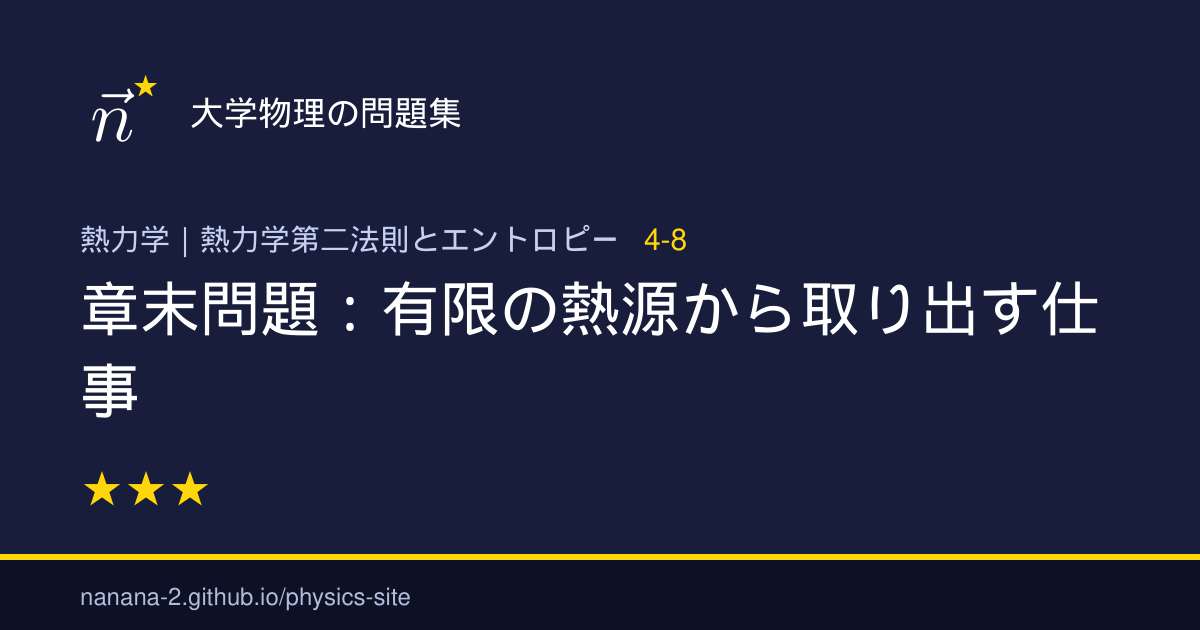
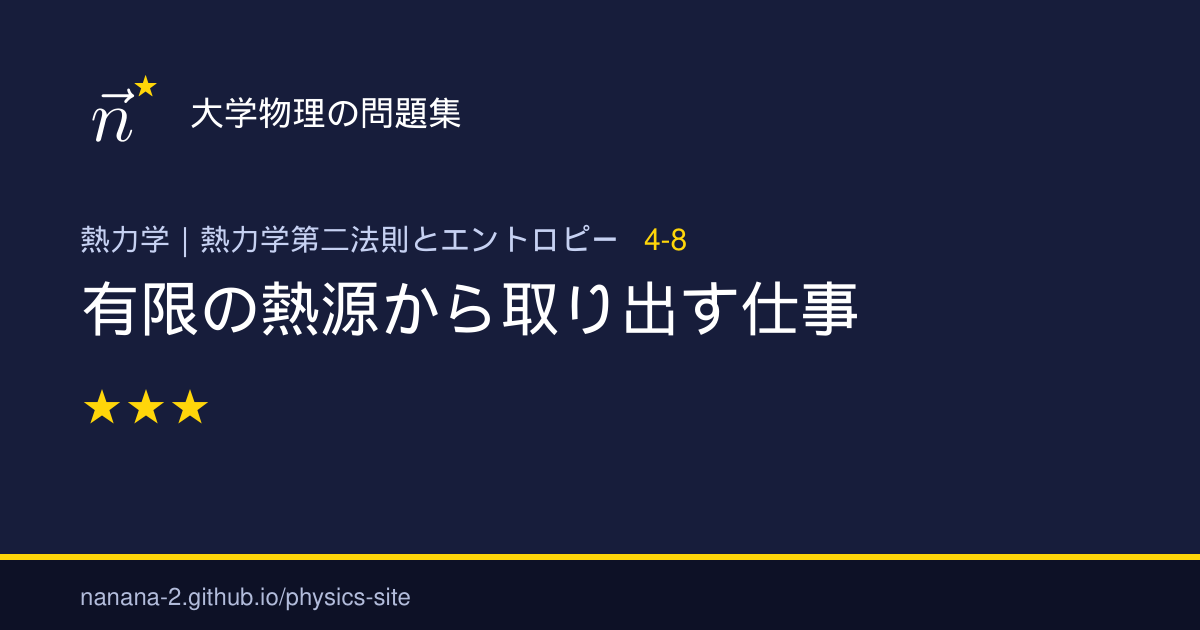
章末問題の題名から「章末問題」を外し，問題の帯と一覧の印で示す

Changed region(s): [[0.0617, 0.4222, 0.925, 0.5429], [0.0617, 0.754, 0.185, 0.8143], [0.0617, 0.573, 0.185, 0.6635]]

diff --git a/docs/javascripts/problem-filter.js b/docs/javascripts/problem-filter.js
@@ -66,7 +66,7 @@
           html += `<section class="toc-chapter"><h2 class="toc-chapter__head"><span class="toc-chapter__no">${p.chapterNumber}</span><span class="toc-chapter__title">${subjectLabel}${escapeHtml(p.chapterName)}</span></h2>`;
         }
         const href = new URL(`../${p.url}`, window.location.href).href;
-        html += `<a class="toc-row finder__row" href="${escapeHtml(href)}"><span class="toc-row__num">${p.label}</span><span class="finder__text"><span class="toc-row__title">${escapeHtml(p.title)}</span>${snippet(p, words)}</span>${stars(LEVELS[p.difficulty] || 0)}</a>`;
+        html += `<a class="toc-row finder__row" href="${escapeHtml(href)}"><span class="toc-row__num">${p.label}</span><span class="finder__text"><span class="toc-row__title">${escapeHtml(p.title)}${p.number.endsWith("_900") ? '<span class="toc-row__mark">章末</span>' : ""}</span>${snippet(p, words)}</span>${stars(LEVELS[p.difficulty] || 0)}</a>`;
       });
       results.innerHTML = `${html}</section>`;
     };

diff --git a/docs/stylesheets/extra.css b/docs/stylesheets/extra.css
@@ -661,6 +661,7 @@ body, input {
 .md-typeset a.toc-row:hover .toc-row__title { color: var(--md-accent-fg-color); }
 .md-typeset .toc-row__num { font-size: .7rem; color: var(--site-navy); }
 .md-typeset .toc-row__stars { font-size: .65rem; letter-spacing: .08em; }
+.md-typeset .toc-row__mark { margin-left: .5em; font-size: .6rem; color: var(--md-default-fg-color--light); white-space: nowrap; }
 .md-typeset .toc-row__stars .on { color: #e0b400; }
 .md-typeset .toc-row__stars .off { color: var(--md-default-fg-color--lighter); }
 [data-md-color-scheme="slate"] .md-typeset a.toc-row { border-color: rgba(255, 255, 255, .06); }

diff --git a/hooks/problem_layout.py b/hooks/problem_layout.py
@@ -37,6 +37,7 @@ SUBJECT_DIRS = (
 )
 LEVELS = {"基本": 1, "標準": 2, "発展": 3}
 
+CHAPTER_END_MARK = '<span class="toc-row__mark">章末</span>'
 PROBLEM_HEADING = re.compile(r'<h2 id="([^"]+)">問題</h2>')
 SUBQUESTION = re.compile(r"<p>\((\d+)\)\s*(.*?)</p>", re.DOTALL)
 
@@ -104,7 +105,7 @@ def on_page_content(html, page, config, files):
     body = _indent_continuations(body)
     box = (
         '<div class="problem-box">'
-        f'<h2 id="{heading.group(1)}"><span>問題</span>{_stars(page.meta)}</h2>'
+        f'<h2 id="{heading.group(1)}"><span>{"章末問題" if _is_chapter_end(page.file.src_uri) else "問題"}</span>{_stars(page.meta)}</h2>'
         f'<div class="problem-box__body">{body}</div>'
         "</div>"
     )
@@ -265,6 +266,11 @@ CHAPTER_CARD = re.compile(
 CARD_GRID = re.compile(r'<div class="grid cards">.*?</div>', re.DOTALL)
 
 
+def _is_chapter_end(path: str) -> bool:
+    # 章末問題はファイル名の番号を 900 にする（<章>_900.md）
+    return Path(path).stem.endswith("_900")
+
+
 def _level(md_path: Path) -> int:
     try:
         text = md_path.read_text(encoding="utf-8")
@@ -284,7 +290,7 @@ def _subject_index(html, page, config):
         links = re.findall(r'<a href="([^"]+)">(.*?)</a>', items)
         rows = "".join(
             f'<a class="toc-row" href="{href}"><span class="toc-row__num">{number}-{i}</span>'
-            f'<span class="toc-row__title">{name}</span>{_stars_html(_level(base / (href.strip("/") + ".md")), "toc-row__stars")}</a>'
+            f'<span class="toc-row__title">{name}{CHAPTER_END_MARK if _is_chapter_end(href.strip("/")) else ""}</span>{_stars_html(_level(base / (href.strip("/") + ".md")), "toc-row__stars")}</a>'
             for i, (href, name) in enumerate(links, 1)
         )
         sections.append(

diff --git a/CLAUDE.md b/CLAUDE.md
@@ -81,7 +81,7 @@ PDF 原稿（`private/pdf-books/`），図の TikZ ソース（`output/pdf/figur
 
 ### 章末問題
 章末問題は図と検算を含めて運営者の Mac で作ります。クラウドでは作りません。
-- 各章の最後に1問ずつ置く。ファイルは `docs/<分野>/<章>/<章>_900.md`，題名は「章末問題：〜」で始め，タグは `発展` にする。分野の `index.md` では，その章の最後の行に足す。
+- 各章の最後に1問ずつ置く。ファイルは `docs/<分野>/<章>/<章>_900.md`，題名に「章末問題」とは書かず，内容だけにする。ファイル名の `_900` から，問題の帯と一覧の「章末」の印が自動で付く。タグは `発展` にする。分野の `index.md` では，その章の最後の行に足す。
 - 難易度は東大・京大の物理系の院試の標準程度。章の内容を広く使い，章の先の発展的な内容にも踏み込む。
 - 1つの系を最後まで扱い，一貫した流れで進める。互いに関係のない設定を **[A]**，**[B]** のように並べない。同じ系の見方を変えるとき（古典と量子，高温と低温など）に限り，問題文の途中で前置きの段落を入れて区切ってよい。
 - 小問は6〜8個とし，「小問は原則2〜3個」の例外とする。前半で定義と基本の計算を確かめ，後半で近似，極限，別の量との関係へ進める。前の小問の結果を後の小問で使う形にする。

diff --git a/docs/03thermodynamics/04/04_900.md b/docs/03thermodynamics/04/04_900.md
@@ -3,7 +3,7 @@ tags:
   - 発展
 ---
 
-# 章末問題：有限の熱源から取り出す仕事
+# 有限の熱源から取り出す仕事
 
 ## 問題
 熱容量が同じ定数 $C$ である2つの物体 A，B を考える。はじめの温度は，A が $T_{\mathrm{H}}$，B が $T_{\mathrm{C}}$ であり，$T_{\mathrm{H}}>T_{\mathrm{C}}$ とする。A，B は外部から断熱されており，体積の変化は無視することができる。

diff --git a/docs/03thermodynamics/index.md b/docs/03thermodynamics/index.md
@@ -58,7 +58,7 @@ hide:
     * [自由膨張とエントロピー](04/04_050.md)
     * [混合エントロピー](04/04_060.md)
     * [エントロピーの多角的定義と整合性](04/04_070.md)
-    * [章末問題：有限の熱源から取り出す仕事](04/04_900.md)
+    * [有限の熱源から取り出す仕事](04/04_900.md)
 
 -   __5. 熱力学ポテンシャルとマクスウェルの関係式__
 
